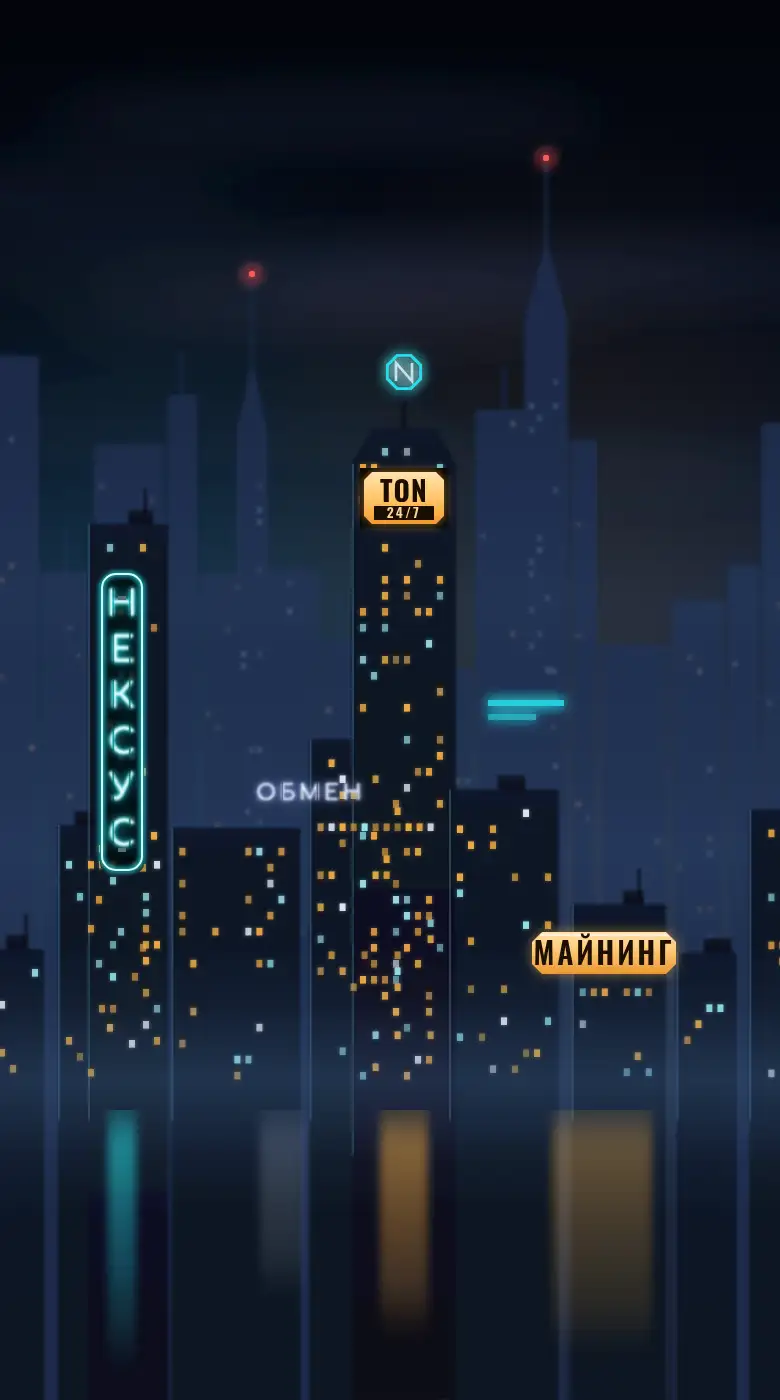
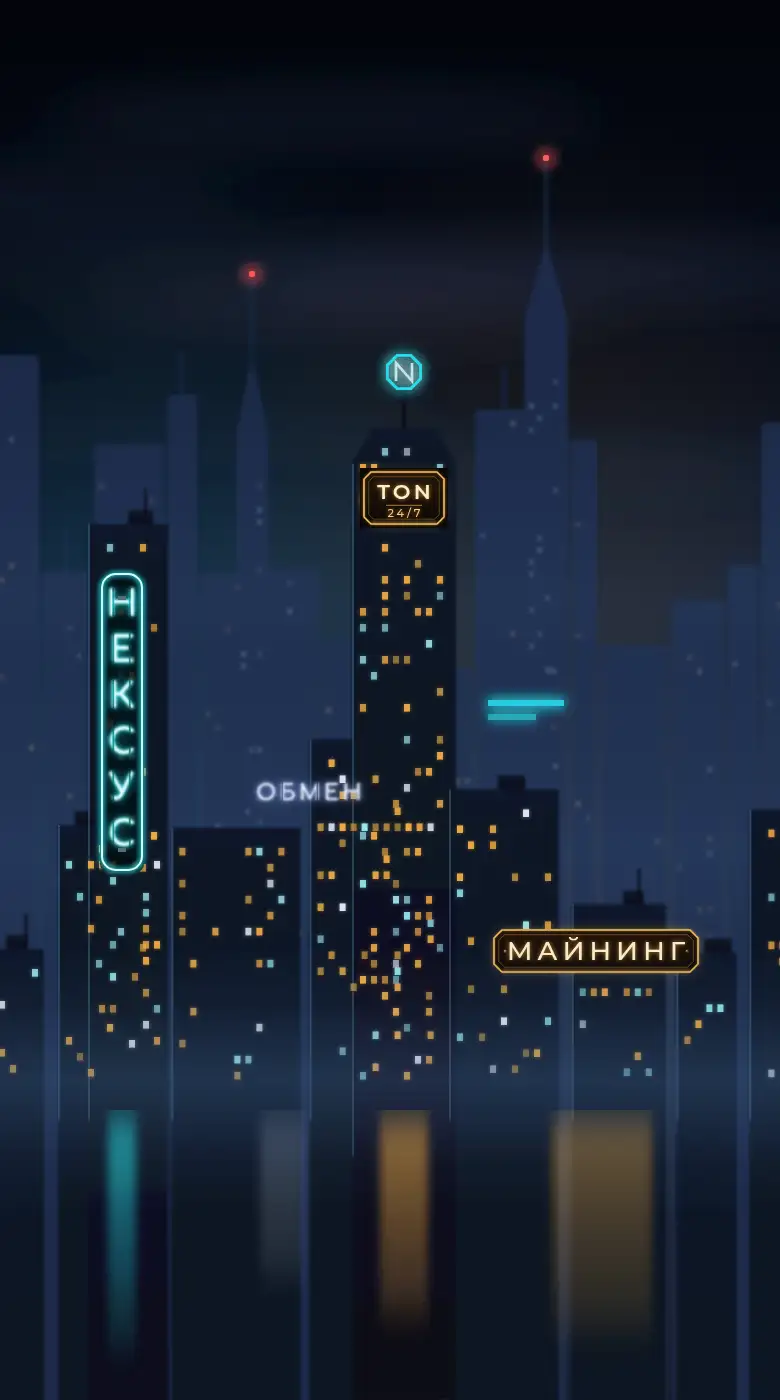
Город: вывески «МАЙНИНГ», «TON 24/7» и «TON» — тёмные плашки с янтарной кромкой (Montserrat)

Changed region(s): [[0.6154, 0.645, 0.9231, 0.7064], [0.4615, 0.3379, 0.5846, 0.3993]]

diff --git a/frontend/src/components/CityBackdrop.tsx b/frontend/src/components/CityBackdrop.tsx
@@ -21,7 +21,7 @@ const WINDOWS: [number, number][] = [
 ];
 // вывески: моргает одна за раз (сдвинутые циклы 11/14/17 с)
 const SIGNS: [number, number, number, number][] = [
-  [48, 284, 26, 154], [181, 235, 42, 28], [265, 465, 74, 23],
+  [48, 284, 26, 154], [181, 235, 42, 28], [246, 464, 104, 23],
 ];
 // искры над рельсом и вывеской «МАЙНИНГ»
 const SPARKS: [number, number, string, number][] = [
